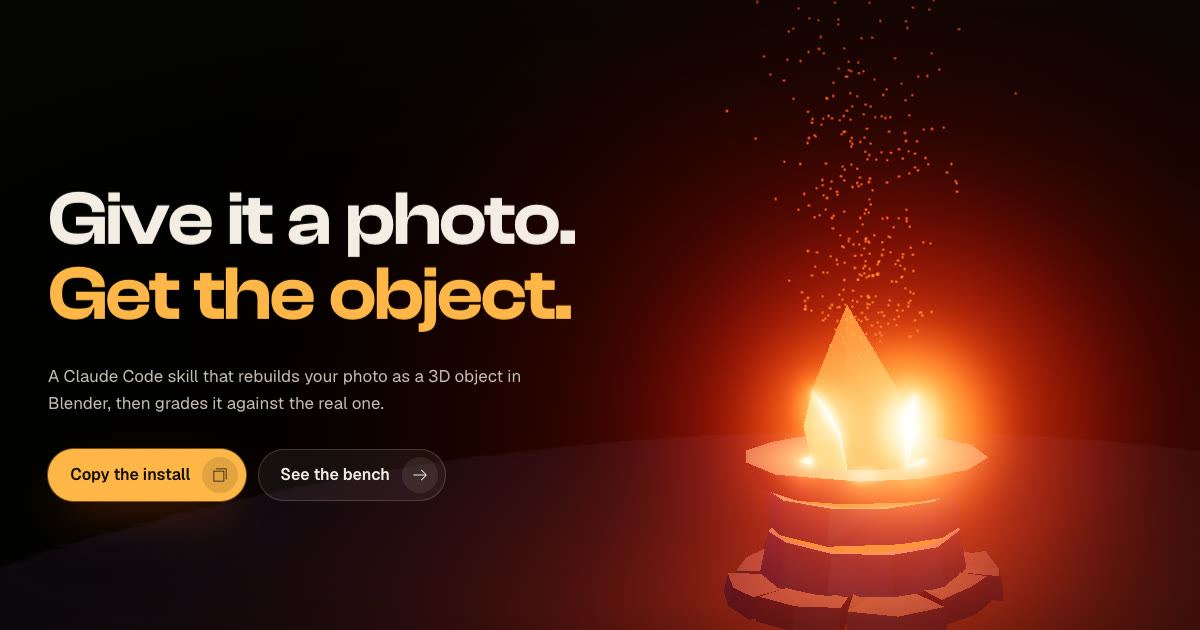
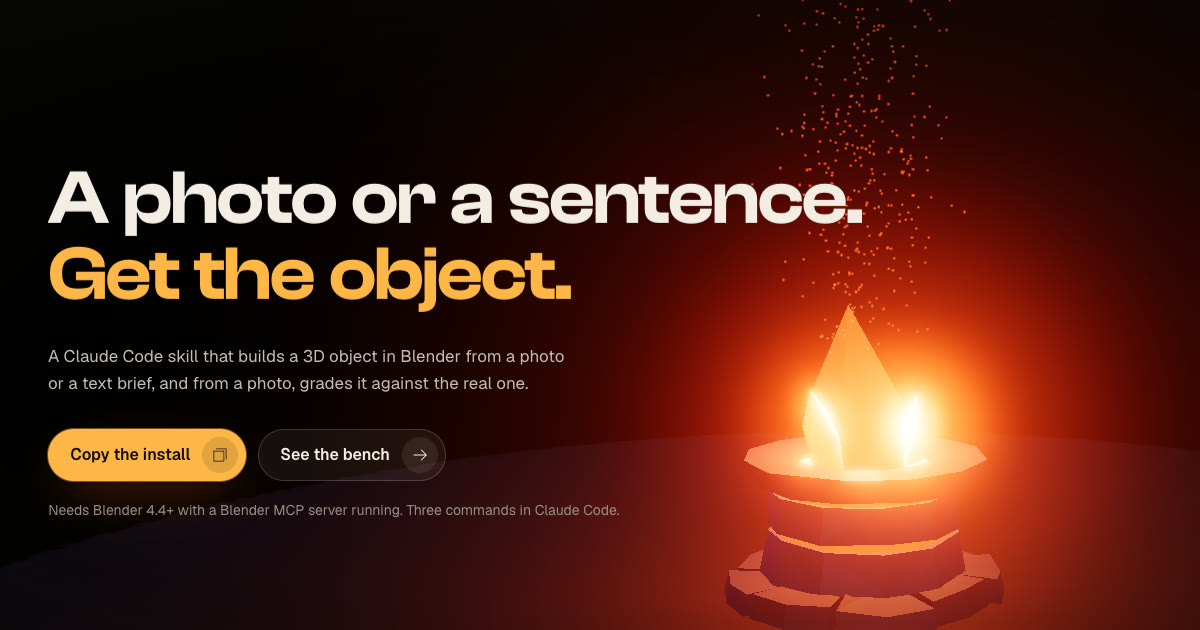
Text in as well as photos; the likeness trade-off, said plainly, with img2threejs
The hero now names both inputs the skill takes, a photo or a text brief, and only
promises a graded result for the photo. A new passage after the lanterns, and the
same paragraph in the README, says why kiln stops at "close": a few dollars per
object, where img2threejs runs eight vision-reviewed passes, keeps finer surface
detail and cost about three times as much on the same lantern (0.866 against
0.861; its cost estimated on a run stopped after three of eight passes). Several
of its techniques were adopted in kiln, and it is linked. Share image re-shot.

diff --git a/README.md b/README.md
@@ -88,6 +88,14 @@ openwork views left out for the chair. The text briefs were measured on the skil
 2.0 (`2b313d2`), the photo rebuilds on the final one. Size is assumed when a brief gives none —
 the chair came out at an ordinary chair's height, 29 % short.</sub>
 
+**Close, not identical, on purpose.** kiln stops at a few dollars per object.
+[img2threejs](https://github.com/img2threejs/img2threejs), which rebuilds an image as Three.js
+code through eight vision-reviewed passes, keeps finer surface detail: on the same lantern its
+likeness was comparable — 0.866 against kiln's 0.861 — at about three times the cost, estimated on
+a run stopped after three of its eight passes. Several of its techniques were measured and adopted
+in kiln: traced wires, layered texture fields, a frosted-glass recipe
+([benchmarks § 4](docs/benchmarks.md#4-kiln-against-an-image-to-code-tool)).
+
 What did not improve is published too: the [benchmarks](docs/benchmarks.md) — fifteen
 versions of one lantern, what each fix broke, how the bench was kept honest — and every
 number, render and GLB under 1 MB on the [`bench-results`](https://github.com/elithril/blender-kiln/tree/bench-results) branch — kept
